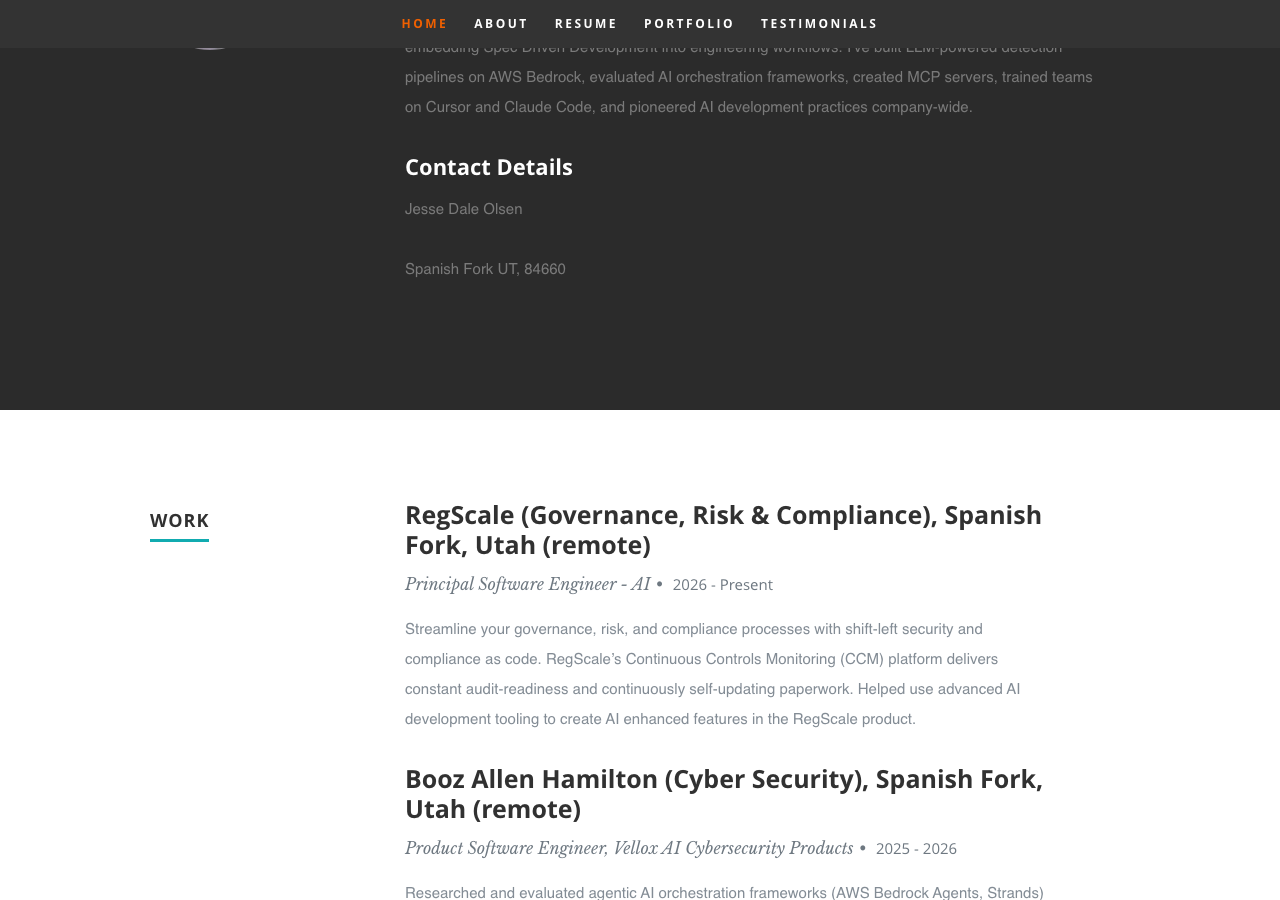
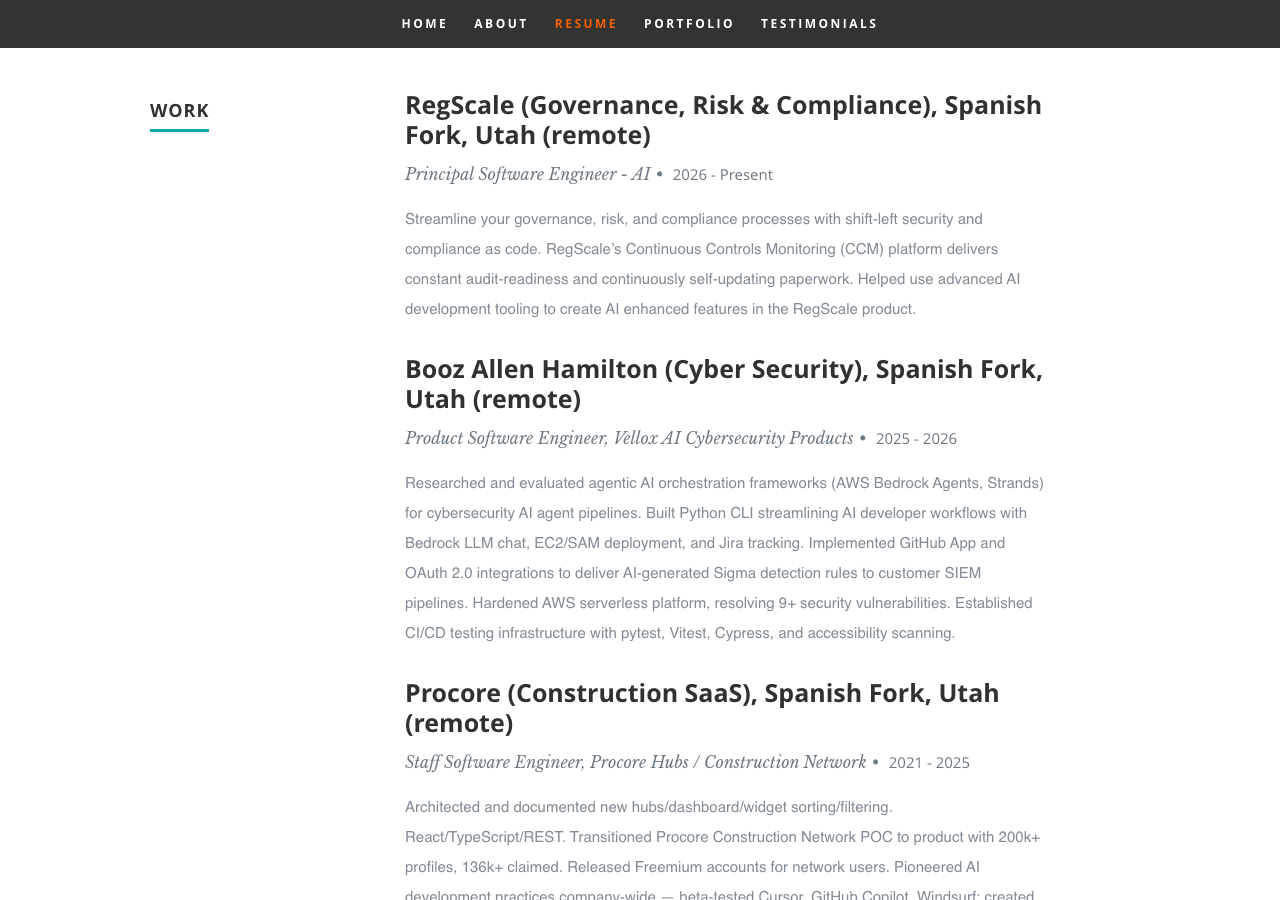
Auto Mode: Add RegScale to Work section
VCM-Agent: claude
VCM-User: jesse.d.olsen@gmail.com
VCM-Item: FB-1788137925519-4ov2cjalo

diff --git a/src/__tests__/regscaleWork.test.js b/src/__tests__/regscaleWork.test.js
@@ -1,0 +1,35 @@
+import React from 'react';
+import ReactDOM from 'react-dom';
+import Resume from '../Components/Resume';
+
+const resumeData = require('../../public/resumeData.json');
+
+describe('RegScale work entry', () => {
+  const work = resumeData.resume.work;
+  const regscale = work.find((job) => job.company.startsWith('RegScale'));
+
+  it('is listed first in the Work section as the current role', () => {
+    expect(regscale).toBeDefined();
+    expect(work[0]).toBe(regscale);
+    expect(regscale.title).toBe('Principal Software Engineer - AI');
+    expect(regscale.years).toBe('2026 - Present');
+    expect(regscale.description).toMatch(
+      /Continuous Controls Monitoring \(CCM\)/
+    );
+    expect(regscale.description).toMatch(
+      /AI enhanced features in the RegScale product/
+    );
+  });
+
+  it('renders above Booz Allen Hamilton in the Resume component', () => {
+    const div = document.createElement('div');
+    ReactDOM.render(<Resume data={resumeData.resume} />, div);
+    const companies = Array.from(div.querySelectorAll('.work h3')).map(
+      (h3) => h3.textContent
+    );
+    expect(companies[0]).toMatch(/^RegScale/);
+    expect(companies[1]).toMatch(/^Booz Allen Hamilton/);
+    expect(div.textContent).toContain('Principal Software Engineer - AI');
+    ReactDOM.unmountComponentAtNode(div);
+  });
+});

diff --git a/.vibecodingmachine/REQUIREMENTS.md b/.vibecodingmachine/REQUIREMENTS.md
@@ -9,23 +9,19 @@ This file contains the requirements to complete the project. Each item in a list
 ## RESPONSE FROM LAST CHAT
 
 ### ONE LINE STATUS:
-DONE: the project now launches on the port VCM checks (3000), so launches stop timing out
+DONE: RegScale is now the first job in the Work section
 
 ### ONE LINE SUMMARY:
-VCM waited for the site on one address while the site started on another. Both now use the same address, and the startup scripts read it from VCM's settings so they can't drift apart again.
+Added RegScale (Principal Software Engineer - AI, 2026 - Present) as the top Work entry, above Booz Allen Hamilton.
 
 ### MULTILINE DETAILS: (1-20 lines max)
-What changed: VCM checked port 8000 for the website, but the site always starts on port 3000, so every launch "timed out" even though the site was running fine. VCM's setting now says 3000. Both startup scripts (Mac/Linux and Windows) now read the port from that one setting and hand it to the dev server, and they no longer pop open a browser window during automated launches.
-Root cause and class of mistake: config drift. The port was set in two places that disagreed: VCM's setting said 8000, while the launch script's 8000 default was never passed to the dev server (the variable wasn't exported), which then used its own default of 3000.
-Same mistake elsewhere, fixed: the Windows launch script had the same 8000 default that never reached the dev server. It now reads the port from the setting and passes it through.
-Checked and clean: the editor debug setting (3000), the project guide CLAUDE.md (3000), README (3000), and the screenshot example in VCM's tool notes (3000) all already agree. The deploy scripts (FTP, port 21) and the VCM deploy script don't involve the dev-server port. No other instances.
-Proof (real launch, re-run this pass): the fixed launch script, with the setting temporarily pointed at a free port (3123), started the dev server there in 3 seconds; its log shows "Local: http://localhost:3123". The page and the resume data both returned HTTP 200. The setting was then put back to 3000. Port 3000 itself was already taken by a dev server for this project that I didn't start, so I left it running.
-Proof (tests): the launch test passes 5 of 5: "polls the port the React dev server listens on (3000)", "launch.sh starts the dev server on the port VCM polls", "launch.sh ignores a stray PORT env var that would disagree with launch.url", "launch.sh does not open a browser window", "launch.ps1 derives and exports PORT from launch.url too". On the code from before this fix, 4 of 5 fail. The stray-PORT check only matters once the setting says 3000.
-Full suite: 5 passed, 1 failed. The failure is the old app smoke test (App.test.js, "Cannot read properties of undefined (reading 'parentNode')"). It already failed before this item.
-Parity: this is developer tooling for starting the site, not a feature. The website and its phone-width layout are unchanged, so no screenshots are needed. Both launch scripts are fixed (Mac/Linux and Windows).
-Running one test file: .vibecodingmachine/INSTRUCTIONS.md has "Proof test command: CI=true npx react-scripts test --env=jsdom --watchAll=false {files}"
+What changed: The Resume > Work section now opens with RegScale (Governance, Risk & Compliance), Spanish Fork, Utah (remote), titled "Principal Software Engineer - AI", dated 2026 - Present. Its description is the text you supplied. Every other job is unchanged and stays in the same order below it.
+Proof (tests): The new RegScale test file passes 2 of 2 tests: "is listed first in the Work section as the current role" and "renders above Booz Allen Hamilton in the Resume component". Both tests fail on the old resume data (2 failed, 2 total).
+Full suite: 7 passed, 1 failed. The failing test is the existing "renders without crashing" app test, which also fails with the old data (a 'parentNode' error at app startup in the test environment), so this change did not cause it.
+Proof (screenshots): Headless Playwright captured verify-desktop.png (1280x900) and verify-mobile-375.png (375x812), both showing RegScale first in Work. The Work section fits within the phone width. The page has 11px of sideways overflow at 375px, but it comes from existing Portfolio cards and not from the Work section.
+PARITY: This project has one interface, a web site viewed on desktop and mobile. Both views read the same resume data, so RegScale shows on both (verified in each screenshot). There is no app, CLI or public API to update.
 PROOF TESTS:
-- src/__tests__/launchConfig.test.js
+- src/__tests__/regscaleWork.test.js
 
 ## 🔨 Current In Progress Requirement
 
@@ -43,13 +39,5 @@ STATUS: DONE
 
 (completed requirements will appear here)
 
-
 ## ⏳ Requirements not yet completed
 
-### VCM-connectivity-test
-Output EXACTLY the following two lines and nothing else — do not explain, do not reason, do not change the path or contents:
-
-CREATE: .vibecodingmachine/temp/TEMP_agent_check.txt
-CONTENT: ```text
-VCM_CHECK_OK
-```
